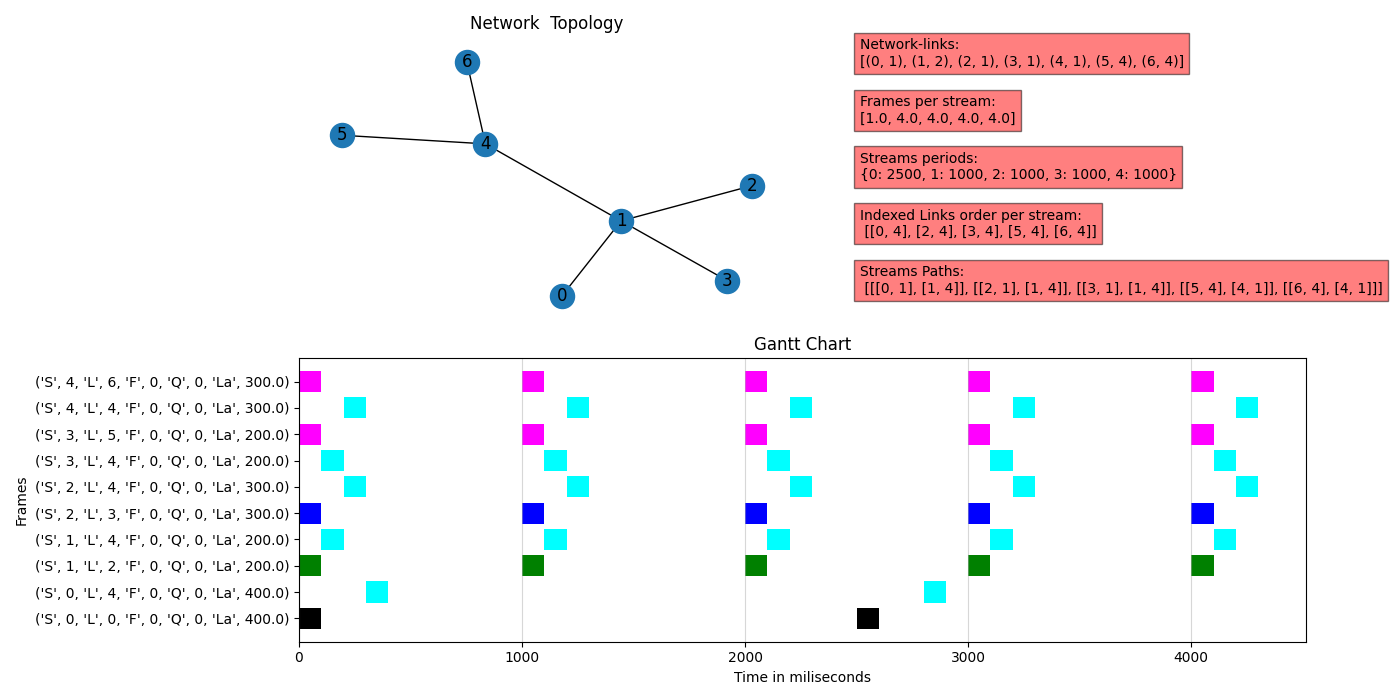
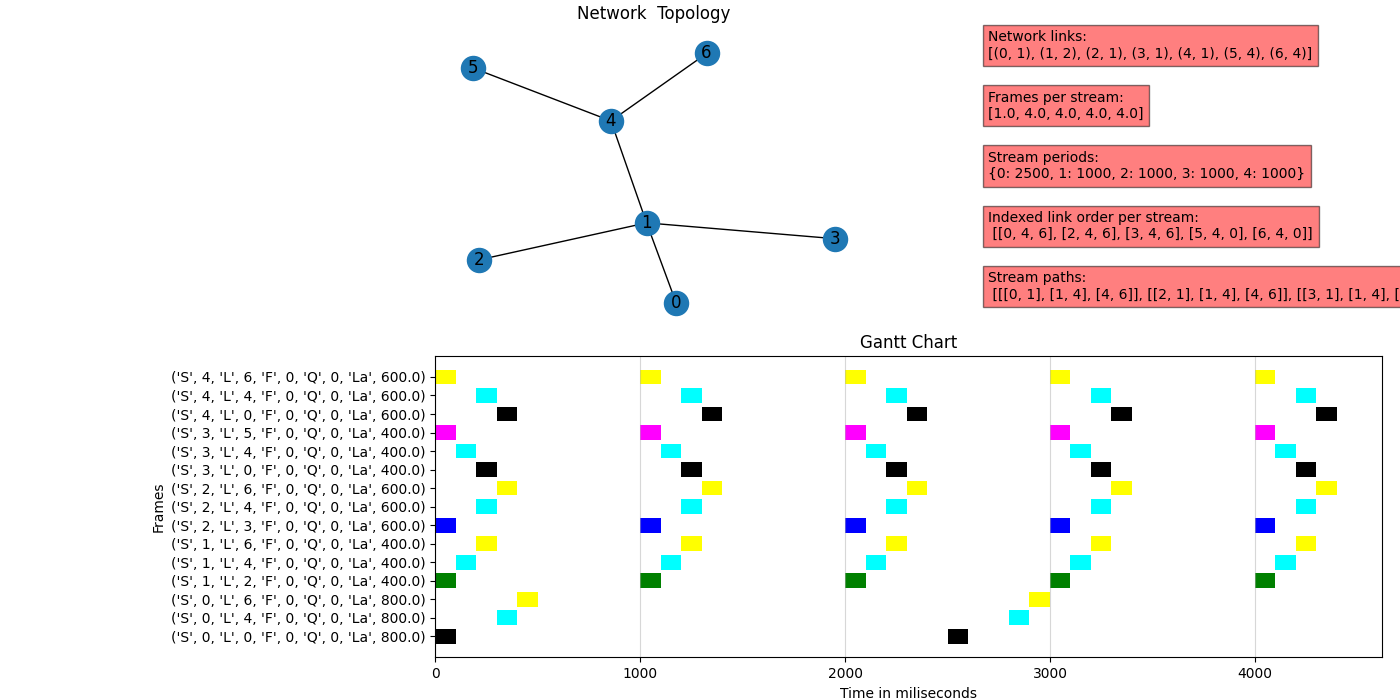
17 abril

diff --git a/Heuristic_Visualizer.py b/Heuristic_Visualizer.py
@@ -64,7 +64,7 @@ def Heuristic_results_visualizer(instance, Model_Descriptor_vector):
 def gantt_chart_generator(Result_offsets, Repetitions, Streams_Period):
     data = [[frame['Task'], frame['Start']] for frame in Result_offsets]
     Repetitions = [repetition + 1 for repetition in Repetitions]
-    color=['black', 'red', 'green', 'blue', 'cyan', 'magenta', 'fuchsia', 'yellow', 'grey', 'orange', 'pink']
+    color=['black', 'red', 'green', 'blue', 'cyan', 'magenta', 'yellow', 'grey', 'orange', 'pink','fuchsia']
     # This set of code is for generating the repetitions values in the dataset
     #For printing the full gant Chart
     New_offsets = []
@@ -101,11 +101,11 @@ def gantt_chart_generator(Result_offsets, Repetitions, Streams_Period):
 
 def information_generator(Num_of_Frames, Streams_Period, Link_order_Descriptor, Network_links, Streams_links_paths):
     plt.subplot(222)
-    plt.text(0.1, 0.9, "Network-links: \n" + str(Network_links), bbox=dict(facecolor='red', alpha=0.5))
+    plt.text(0.1, 0.9, "Network links: \n" + str(Network_links), bbox=dict(facecolor='red', alpha=0.5))
     plt.text(0.1, 0.7, "Frames per stream: \n" + str(Num_of_Frames), bbox=dict(facecolor='red', alpha=0.5))
-    plt.text(0.1, 0.5, "Streams periods: \n" + str(Streams_Period), bbox=dict(facecolor='red', alpha=0.5))
-    plt.text(0.1, 0.3, "Indexed Links order per stream: \n " + str(Link_order_Descriptor), bbox=dict(facecolor='red', alpha=0.5))
-    plt.text(0.1, 0.1, "Streams Paths: \n " + str(Streams_links_paths), bbox=dict(facecolor='red', alpha=0.5))
+    plt.text(0.1, 0.5, "Stream periods: \n" + str(Streams_Period), bbox=dict(facecolor='red', alpha=0.5))
+    plt.text(0.1, 0.3, "Indexed link order per stream: \n " + str(Link_order_Descriptor), bbox=dict(facecolor='red', alpha=0.5))
+    plt.text(0.1, 0.1, "Stream paths: \n " + str(Streams_links_paths), bbox=dict(facecolor='red', alpha=0.5))
     plt.axis('off')
     plt.show() # comment for avoiding showing de result
 

diff --git a/read.py b/read.py
@@ -5,7 +5,7 @@ import matplotlib.pyplot as plt
 import networkx as nx 
 
 file_input = "Solutions/input6.json"
-
+ 
 def Read():
     Number_of_edges=0  #numero de switch=4
     Number_of_Streams=0 #numero de flujos=3
@@ -26,14 +26,23 @@ def Read():
             for port in switch["ports"]:
                 Name_port_switch = port["name"]
                 ConnectsTo_port_switch = port["connectsTo"]
-                Network_link = Network_link + [(x, y) for x in Name_switch for y in ConnectsTo_port_switch]
+                if(Network_link == []):
+                    print("ini")
+                    Network_link = Network_link + [(x, y) for x in Name_switch for y in ConnectsTo_port_switch]
+                print("act  ", ConnectsTo_port_switch, "  ", Name_switch)
                 for link in Network_link:
+                    print("link",link[0],"  ",link[1])
                     if link[0] == ConnectsTo_port_switch and link[1] == Name_switch:
+                        change = False
                         break
                     else:
-                        if change == True:
-                            Network_links = Network_links + [(int(x), int(y)) for x in Name_switch for y in ConnectsTo_port_switch]
-                            change = False
+                        change == True
+                if change == True:
+                    Network_links = Network_links + [(int(x), int(y)) for x in Name_switch for y in ConnectsTo_port_switch]
+                    change = False
+                    print("Network_links  ",Network_links)
+                print("----")
+
                 TimeToTravel_port_switch = port["timeToTravel"]
         for flow in data["flows"]:
             Number_of_Streams =Number_of_Streams+1

diff --git a/ILP_Generator.py b/ILP_Generator.py
@@ -69,7 +69,7 @@ class ILP_Raagard_solver :
         self.unused_links = unused_links
         self.Frame_Duration = Frame_Duration
 
-        #print("self  ",self.Number_of_Streams, self.Network_links, self.Link_order_Descriptor, self.Streams_Period, self.Hyperperiod)
+        print("self  ",self.Number_of_Streams, self.Network_links, self.Link_order_Descriptor, self.Streams_Period, self.Hyperperiod)
         #print("2",self.Frames_per_Stream,self.Max_frames, self.Num_of_Frames,self.Model_Descriptor,self.Model_Descriptor_vector)
         #print("3",self.Deathline_Stream,self.Repetitions, self.Repetitions_Descriptor,self.Frame_Duration)
         #print("4",self.Stream_Source_Destination,self.Streams_size,self.Streams_paths, self.Sort_Stream_Source_Destination)
@@ -248,8 +248,8 @@ class ILP_Raagard_solver :
                 return Constraint.Skip
 
         ### This part is the creation of the instance in the ilp system
-        opt = SolverFactory('gurobi')
-        #opt = SolverFactory('gurobi', solver_io="python")
+        #opt = SolverFactory('gurobi')
+        opt = SolverFactory('glpk')
 
         self.instance = self.model.create_instance()
         self.results = opt.solve(self.instance)

diff --git a/Solutions_Visualizer.py b/Solutions_Visualizer.py
@@ -64,7 +64,7 @@ def gantt_chart_generator(Result_offsets, Repetitions, Streams_Period) :
     data = [[frame['Task'], frame['Start']] for frame in Result_offsets]
     Repetitions = [repetition + 1 for repetition in Repetitions]
 
-    color=['black', 'red', 'green', 'blue', 'cyan', 'magenta', 'fuchsia', 'yellow', 'grey', 'orange', 'pink']
+    color=['black', 'red', 'green', 'blue', 'cyan', 'magenta',  'yellow', 'grey', 'orange', 'pink','fuchsia']
 
     # This set of code is for generating the repetitions values in the dataset
     #For printing the full gant Chart
